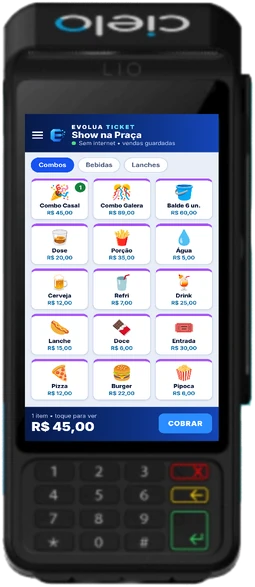
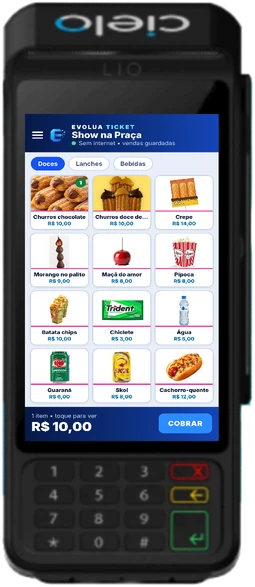
Fotos reais dos produtos nas telas e impressora real
As telas das maquininhas e do celular usam as fotos enviadas, a
impressora desenhada dá lugar à foto real com a ficha do Evolua Ticket
no papel e as fichas impressas mostram produtos das telas.

Claude-Session: https://claude.ai/code/session_01GbLZ4zt1ntkEGnsbhGEL5K

Changed region(s): [[0.1098, 0.2453, 0.851, 0.7359]]

diff --git a/ALTERACOES.md b/ALTERACOES.md
@@ -12,5 +12,6 @@ Tudo aqui fica na branch `proximas-alteracoes` e só vai para o site quando for 
 - [x] Fichas refeitas: agora saem da boca da impressora de cada maquininha, subindo e com a ponta curvada para trás, e não deitadas por cima. Logos apagados com retoque (Cielo e LIO em cima, "stone" embaixo da tela); o da Moderninha fica atrás da ficha.
 - [x] Quadro "Celular Android": celular moderno inclinado na frente com o Evolua Ticket na tela e impressora térmica portátil atrás com a ficha (código de barras e QR Code) saindo, no arranjo do esboço enviado. São ilustrações nossas (não foto); dá para trocar por foto real depois.
 - [x] Celular do quadro "Celular Android" bem maior, ocupando o quadro, com a impressora ao lado.
-- [ ] Fotos reais dos produtos nas telas das maquininhas e do celular: aguardando fotos.
-- [ ] Impressora Bluetooth real no quadro do celular: aguardando foto.
+- [x] Telas das maquininhas (na abertura e na seção de compatibilidade) e do celular com fotos reais dos produtos enviadas pelo Joelson: bebidas na Moderninha, lanches na Stone, doces na Cielo e mix no celular. Os 5 hambúrgueres, as latas e as garrafas foram recortados um a um.
+- [x] Impressora Bluetooth real (foto enviada) no lugar da desenhada, com a ficha do Evolua Ticket no papel.
+- [x] Fichas impressas trocadas para produtos que aparecem nas telas (SKOL, X-SALADA, CHURROS).
